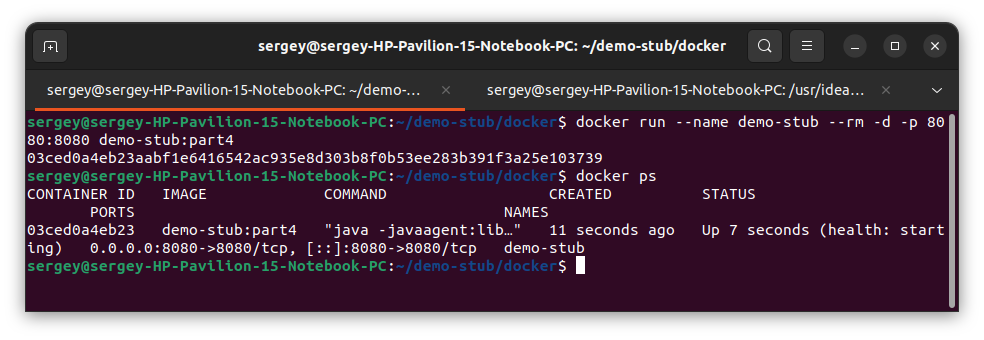
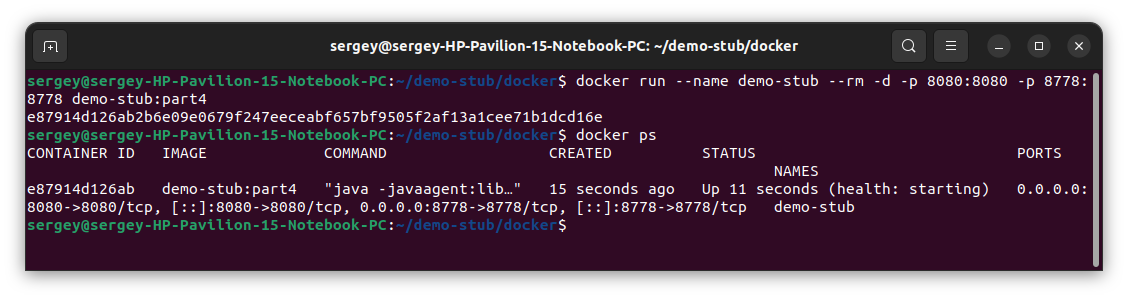
fix: part4

Changed region(s): [[0.0, 0.0602, 1.0, 0.9331], [0.8841, 0.1204, 0.9146, 0.1505]]

diff --git a/notes/part_4.md b/notes/part_4.md
@@ -19,30 +19,34 @@ HEALTHCHECK --interval=5s --timeout=10s --retries=3 \
 WORKDIR /app
 RUN git clone https://github.com/SavushkinSV/demo-stub.git /app
 RUN mvn clean install
-EXPOSE 8080
+EXPOSE 8080 8778
 USER stub
-CMD ["java", "-javaagent:lib/jolokia-agent-jvm-2.2.9.jar", "-jar", "target/demo-stub-0.0.1-SNAPSHOT.jar"]
+CMD ["java", "-javaagent:lib/jolokia-agent-jvm-2.2.9.jar=port=8778,host=0.0.0.0", "-jar", "target/demo-stub-0.0.1-SNAPSHOT.jar"]
 ```
 
-Соберём написанный докер-образ с помощью команды docker `docker build -t demo-stub:part4 .`, при этом указав имя **demo-stub** и тег **part4**.
-С помощью команды `docker images` выведем в консоль все образы **Docker**.
+Соберём написанный докер-образ с помощью команды docker `docker build -t demo-stub:part4 .`, при этом указав имя **demo-stub** и тег **part4**. С помощью команды `docker images` выведем в консоль все образы **Docker**.
 
-![part_4_1](images/part_4_3.png "Скриншот с вызовом и выполнением команд") \
+![part_4_1](images/part_4_1.png "Скриншот с вызовом и выполнением команд") \
 *Скриншот с вызовом и выполнением команд*
 
-Проверим с помощью утилиты **Dockle** на наличие уязвимостей. Выполним команду `dockle demo-stub:part4`.
+Проверим полученный докер образ с помощью утилиты **Dockle** на наличие уязвимостей. Выполним команду `dockle demo-stub:part4`.
 Уведомления уровней **FATAL** и **WARN** необходимо устранить.
 
 ![part_4_2](images/part_4_2.png "Скриншот с вызовом и выполнением команд") \
 *Скриншот с вызовом и выполнением команд*
 
-Командой `docker run --name demo-stub -d -p 8080:8080 demo-stub:part4` запустим контейнер с именем **demo-stub** из образа **demo-stub:part4**.
+Командой `docker run --name demo-stub --rm -d -p 8080:8080 -p 8778:8778 demo-stub:part4` запустим контейнер с именем **demo-stub** из образа **demo-stub:part4**.
 Командой `docker ps` проверим, что контейнер запущен.
 
 ![part_4_3](images/part_4_3.png "Скриншот с вызовом и выполнением команд") \
 *Скриншот с вызовом и выполнением команд*
 
+Проверяем работу **Jolokia agent** в браузере по адресу `http://172.17.0.2:8778/jolokia/`. Просматривается на ip адресе контейнера.
+
+![part_4_4](images/part_4_4.png "Скриншот браузера с проверкой работы Jolokia agent") \
+*Скриншот браузера с проверкой работы Jolokia agent*
+
 Проверяем работу приложения при помощи **Postman** с хоста.
 
-![part_4_4](images/part_4_4.png "Скриншот из Postman с GET запросом") \
+![part_4_5](images/part_4_5.png "Скриншот из Postman с GET запросом") \
 *Скриншот из Postman с GET запросом*

diff --git a/notes/part_3.md b/notes/part_3.md
@@ -85,7 +85,7 @@ public class StubController {
 
 ### 3.3. Добавить к приложению Jolokia agent
 
-На официальном сайте Jolokia (https://jolokia.org/) скачаем последнюю версию агента (на текущий момент версия 2.2.9). 
+На официальном сайте Jolokia (https://jolokia.org/) скачаем последнюю версию агента (на текущий момент версия 2.2.9).
 Скачанный файл поместим в директорию `/lib` проекта.
 
 Теперь запустим приложение вместе с **Jolokia agent**. Для этого используем команду `java -javaagent:lib/jolokia-agent-jvm-2.2.9.jar -jar target/demo-stub-0.0.1-SNAPSHOT.jar`.
